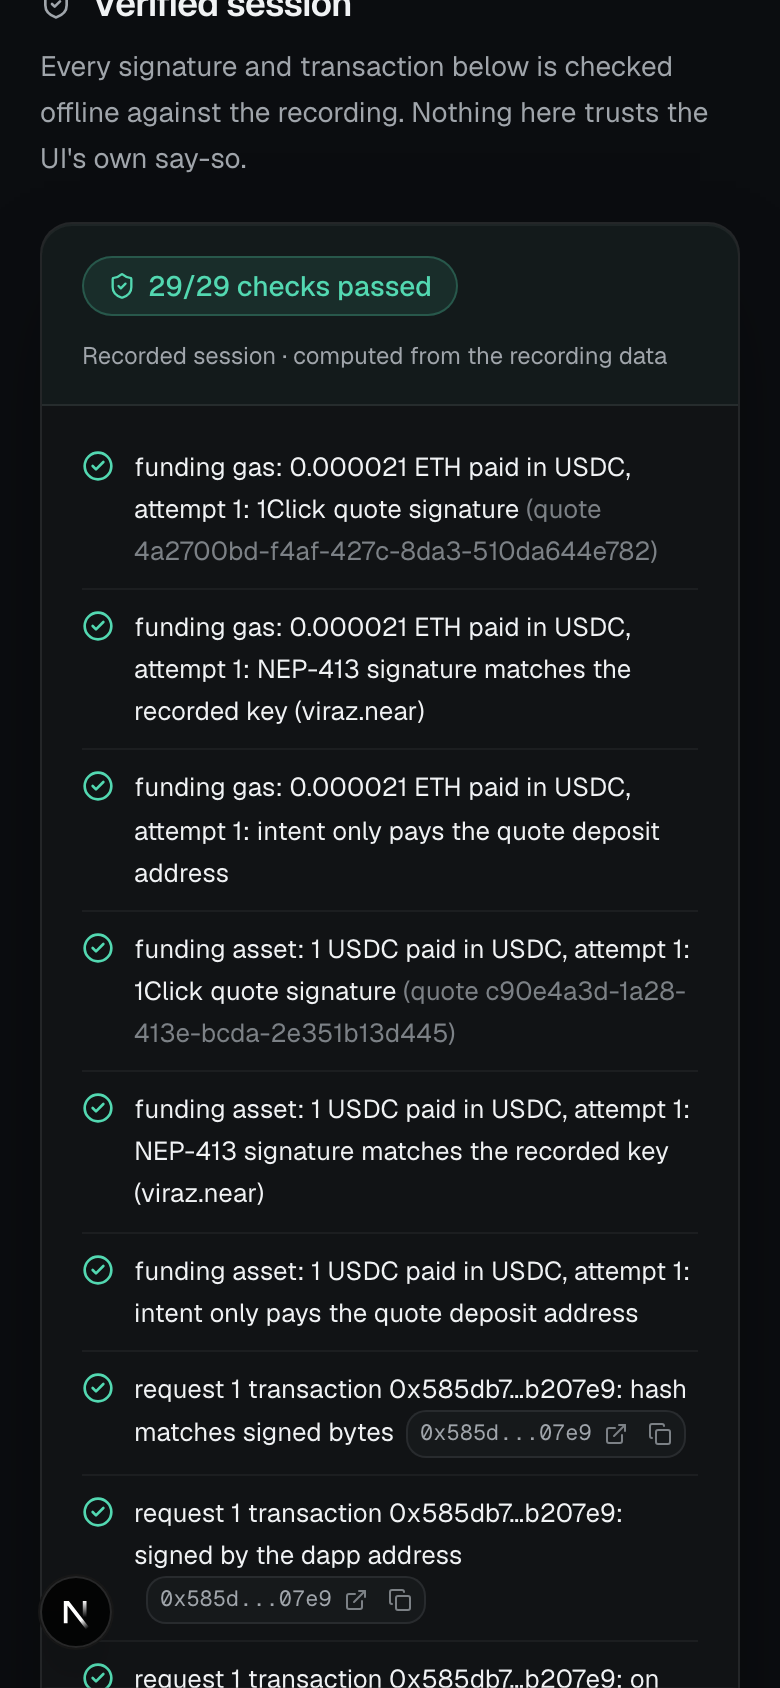
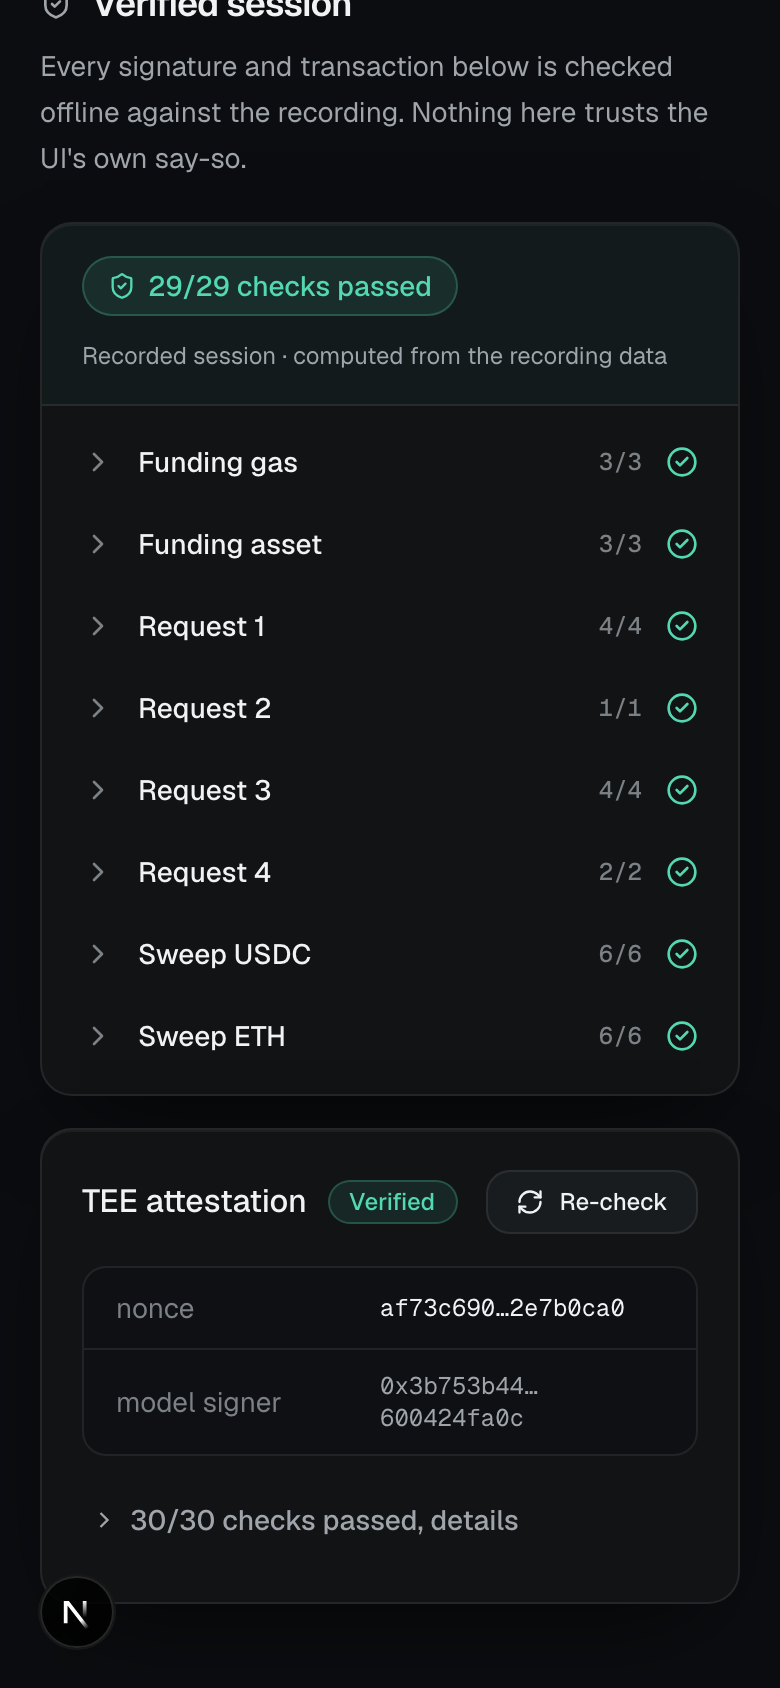
feat(web): allowed-request demo and grouped verified checks
- Hero gains "Try an allowed request", opening the sheet on the recorded
  sent contract call (the Uniswap swap) in a green "Allowed by Shelter"
  state with the decoded table, tx chip and Shelter checks box.
- Verified session replaces the flat two-column list with one collapsible
  row per group (funding legs, each request, each sweep), counts computed
  from verifySession output; all rows start collapsed.
- Screenshots and the axe pass now cover the allowed sheet as well.

diff --git a/apps/web/components/connect/connect-verified.tsx b/apps/web/components/connect/connect-verified.tsx
@@ -4,16 +4,22 @@
  * The verified panel for a recorded Connect session: every check is computed
  * from the recording (1Click quote signatures, NEP-413 withdrawal signatures,
  * dapp-signed transactions, sweep deposits, linkage re-checks), each with its
- * Basescan link where one exists. The NEAR AI TEE attestation panel stays
- * below for the explainer.
+ * Basescan link where one exists. Checks are grouped by funding leg, request
+ * and sweep; each group expands to its individual checks. The NEAR AI TEE
+ * attestation panel stays below for the explainer.
  */
 
 import { useEffect, useMemo, useState } from "react";
 import { motion, useReducedMotion } from "motion/react";
-import { CircleCheck, CircleX, ShieldCheck } from "lucide-react";
+import { ChevronRight, CircleCheck, CircleX, ShieldCheck } from "lucide-react";
 import type { ConnectAccountView } from "@/lib/connect-source";
 import { verifySession, type VerifyCheck } from "@/lib/connect-verify";
 import { VerifiedPanel } from "@/components/verified-panel";
+import {
+  Collapsible,
+  CollapsibleContent,
+  CollapsibleTrigger,
+} from "@/components/motion/collapsible";
 import { Pill, Reveal, SectionTitle, TxChip } from "./primitives";
 import { cn } from "@/lib/utils";
 import { BASESCAN_TX } from "@/lib/connect-format";
@@ -50,6 +56,71 @@ function CheckItem({ check }: { check: VerifyCheck }) {
   );
 }
 
+interface CheckGroup {
+  name: string;
+  checks: VerifyCheck[];
+}
+
+/** Group checks by what they verify: funding leg, request, or sweep. */
+function groupChecks(checks: VerifyCheck[]): CheckGroup[] {
+  const groups = new Map<string, VerifyCheck[]>();
+  for (const c of checks) {
+    const m =
+      c.label.match(/^funding (gas[^:]*|asset):/) ??
+      c.label.match(/^request (\d+)/) ??
+      c.label.match(/^sweep ([^:]+):/);
+    let name: string;
+    if (m) {
+      if (c.label.startsWith("funding ")) {
+        name = m[1] === "asset" ? "Funding asset" : "Funding gas";
+      } else if (c.label.startsWith("request ")) {
+        name = `Request ${m[1]}`;
+      } else {
+        name = `Sweep ${m[1]}`;
+      }
+    } else {
+      name = "Other";
+    }
+    const list = groups.get(name) ?? [];
+    list.push(c);
+    groups.set(name, list);
+  }
+  return [...groups.entries()].map(([name, list]) => ({ name, checks: list }));
+}
+
+function GroupRow({ group }: { group: CheckGroup }) {
+  const pass = group.checks.filter((c) => c.status === "pass").length;
+  const allPass = pass === group.checks.length;
+  return (
+    <Collapsible>
+      <CollapsibleTrigger className="group/row rounded-lg px-3 py-2.5 hover:bg-muted/40">
+        <ChevronRight
+          className="size-4 shrink-0 text-faint transition-transform group-data-[state=open]/row:rotate-90"
+          aria-hidden
+        />
+        <span className="min-w-0 flex-1 truncate text-sm font-medium text-foreground">
+          {group.name}
+        </span>
+        <span className="font-mono text-xs tabular-nums text-faint">
+          {pass}/{group.checks.length}
+        </span>
+        {allPass ? (
+          <CircleCheck className="size-4 shrink-0 text-shelter" aria-hidden />
+        ) : (
+          <CircleX className="size-4 shrink-0 text-destructive" aria-hidden />
+        )}
+      </CollapsibleTrigger>
+      <CollapsibleContent contentClassName="px-3 pb-2">
+        <ul className="divide-y divide-border/60">
+          {group.checks.map((c) => (
+            <CheckItem key={c.id} check={c} />
+          ))}
+        </ul>
+      </CollapsibleContent>
+    </Collapsible>
+  );
+}
+
 export function ConnectVerified({ view }: { view: ConnectAccountView }) {
   const reduce = useReducedMotion();
   const [checks, setChecks] = useState<VerifyCheck[] | null>(null);
@@ -72,9 +143,7 @@ export function ConnectVerified({ view }: { view: ConnectAccountView }) {
   const passCount = useMemo(() => checks?.filter((c) => c.status === "pass").length ?? 0, [checks]);
   const total = checks?.length ?? 0;
   const allPass = checks !== null && passCount === total && total > 0;
-  const mid = Math.ceil((checks?.length ?? 0) / 2);
-  const left = checks?.slice(0, mid) ?? [];
-  const right = checks?.slice(mid) ?? [];
+  const groups = useMemo(() => (checks ? groupChecks(checks) : []), [checks]);
 
   return (
     <Reveal>
@@ -102,18 +171,11 @@ export function ConnectVerified({ view }: { view: ConnectAccountView }) {
             initial={reduce ? false : { opacity: 0 }}
             animate={{ opacity: 1 }}
             transition={{ duration: 0.3 }}
-            className="grid gap-x-8 px-5 py-3 md:grid-cols-2"
+            className="px-2 py-2"
           >
-            <ul className="divide-y divide-border/60">
-              {left.map((c) => (
-                <CheckItem key={c.id} check={c} />
-              ))}
-            </ul>
-            <ul className="divide-y divide-border/60">
-              {right.map((c) => (
-                <CheckItem key={c.id} check={c} />
-              ))}
-            </ul>
+            {groups.map((g) => (
+              <GroupRow key={g.name} group={g} />
+            ))}
           </motion.div>
         ) : failed ? (
           <p className="px-5 py-4 text-sm text-destructive">Could not verify the recording.</p>

diff --git a/apps/web/components/connect/request-sheet.tsx b/apps/web/components/connect/request-sheet.tsx
@@ -7,7 +7,7 @@
  */
 
 import { useMemo } from "react";
-import { AlertTriangle, Ban, CheckCircle2, ShieldX } from "lucide-react";
+import { AlertTriangle, Ban, ShieldCheck, ShieldX } from "lucide-react";
 import { CopyableHash } from "./copyable-hash";
 import { parseRequest, type Finding, type RequestRecord } from "@shelter/connect";
 import { BottomSheet } from "@/components/motion/bottom-sheet";
@@ -120,19 +120,29 @@ export function RequestSheet({ view, request, open, onOpenChange }: RequestSheet
             ) : null}
           </div>
         ) : isSent || isSigned ? (
-          <div className="flex items-center gap-2 rounded-xl border border-shelter/30 bg-shelter/10 px-4 py-3 text-sm text-shelter">
-            <CheckCircle2 className="size-4 shrink-0" aria-hidden />
-            {isSigned ? "Signed" : "Sent"}
-            {request.tx ? (
-              <span className="ml-auto inline-flex items-center gap-2 font-mono text-xs text-shelter">
+          <div className="flex flex-col items-center px-2 py-2 text-center">
+            <span className="relative grid size-14 place-items-center rounded-2xl border border-shelter/40 bg-shelter/15 text-shelter">
+              <span aria-hidden className="absolute inset-0 rounded-2xl ring-8 ring-shelter/5" />
+              <ShieldCheck className="size-7" aria-hidden />
+            </span>
+            <p className="mt-4 text-xl font-semibold tracking-tight">Allowed by Shelter</p>
+            <p className="mt-2 max-w-sm text-sm leading-relaxed text-muted-foreground">
+              {isSigned
+                ? "This signature stayed inside the dapp's own address. Nothing was sent on-chain."
+                : "This request stayed inside the dapp's own address, was signed by it, and mined on Base."}
+            </p>
+            <div className="mt-3 flex flex-wrap items-center justify-center gap-2">
+              <Pill tone="ok" className="align-middle">
+                {isSigned ? "signed" : "sent"}
+              </Pill>
+              {request.tx ? (
                 <CopyableHash
                   value={request.tx.hash}
                   href={BASESCAN_TX(request.tx.hash)}
                   label="Copy transaction hash"
-                  className="text-shelter"
                 />
-              </span>
-            ) : null}
+              ) : null}
+            </div>
           </div>
         ) : request.decision ? (
           <div className="flex items-center gap-2 rounded-xl border border-border bg-surface/60 px-4 py-3 text-sm text-muted-foreground">
@@ -168,11 +178,20 @@ export function RequestSheet({ view, request, open, onOpenChange }: RequestSheet
           </div>
         ))}
 
-        {blockFindings.length || warnFindings.length || otherFindings.length ? (
+        {blockFindings.length || warnFindings.length || otherFindings.length || isSent || isSigned ? (
           <div className="rounded-xl border bg-surface/60 p-4">
             <div className="text-xs font-medium uppercase tracking-wider text-faint">
               Shelter checks
             </div>
+            {!blockFindings.length && !warnFindings.length && !otherFindings.length ? (
+              <p className="mt-3 flex items-start gap-2 text-sm">
+                <ShieldCheck className="mt-0.5 size-4 shrink-0 text-shelter" aria-hidden />
+                <span>
+                  No findings: the request names nothing on your list.
+                </span>
+              </p>
+            ) : null}
+            {blockFindings.length || warnFindings.length || otherFindings.length ? (
             <ul className="mt-3 space-y-2">
               {[...blockFindings, ...warnFindings, ...otherFindings].map((f, i) => (
                 <li key={`${f.code}-${i}`} className="flex items-start gap-2 text-sm">
@@ -194,6 +213,7 @@ export function RequestSheet({ view, request, open, onOpenChange }: RequestSheet
                 </li>
               ))}
             </ul>
+            ) : null}
           </div>
         ) : null}
 

diff --git a/apps/web/components/connect/connect-demo.tsx b/apps/web/components/connect/connect-demo.tsx
@@ -24,6 +24,7 @@ import { ConnectGraph } from "./connect-graph";
 import { FundingTimeline } from "./funding-timeline";
 import { ConnectVerified } from "./connect-verified";
 import { LinkagePanel } from "./linkage-panel";
+import { requestListLabel } from "@/lib/request-decode";
 import { BottomSheet } from "@/components/motion/bottom-sheet";
 import { Btn, Pill, Reveal, SectionTitle } from "./primitives";
 import { cn } from "@/lib/utils";
@@ -203,6 +204,22 @@ export function ConnectDemo() {
     };
     window.addEventListener("shelter:try-it", onTry);
     return () => window.removeEventListener("shelter:try-it", onTry);
+  }, [views, openRequest]);
+
+  // "Try an allowed request" opens the sheet on the sent contract call from
+  // the recording (the dapp transaction that was allowed, not the approval).
+  useEffect(() => {
+    const onAllowed = () => {
+      const sent = Object.values(views)
+        .flatMap((v) => v.account.requests)
+        .filter((r) => r.decision === "sent" && r.method === "eth_sendTransaction" && r.tx);
+      const contractCall = sent.filter((r) => requestListLabel(r).startsWith("Contract call"));
+      const pick = contractCall.at(-1) ?? sent.at(-1);
+      if (pick) openRequest(pick);
+      else document.getElementById("connect-demo")?.scrollIntoView({ behavior: "smooth", block: "start" });
+    };
+    window.addEventListener("shelter:try-allowed", onAllowed);
+    return () => window.removeEventListener("shelter:try-allowed", onAllowed);
   }, [views, openRequest]);
 
   const view = selectedId ? views[selectedId] : undefined;

diff --git a/apps/web/app/page.tsx b/apps/web/app/page.tsx
@@ -1,7 +1,7 @@
 "use client";
 
 import { motion, useReducedMotion } from "motion/react";
-import { Play } from "lucide-react";
+import { Play, ShieldCheck } from "lucide-react";
 import { ConnectDemo } from "@/components/connect/connect-demo";
 import { Reveal } from "@/components/connect/primitives";
 import { cn } from "@/lib/utils";
@@ -59,8 +59,9 @@ function Hero() {
           your other wallets are blocked, and closing sweeps the funds home. No
           sign-in, no funds, no keys needed to try it.
         </motion.p>
-        <motion.div {...f(0.18)} className="mt-8">
+        <motion.div {...f(0.18)} className="mt-8 flex flex-wrap gap-3">
           <TryIt />
+          <TryAllowed />
         </motion.div>
       </div>
     </header>
@@ -84,6 +85,25 @@ function TryIt() {
     >
       <Play className="size-3.5 fill-current" aria-hidden />
       Try it
+    </button>
+  );
+}
+
+function TryAllowed() {
+  return (
+    <button
+      type="button"
+      onClick={() => {
+        document.getElementById("connect-demo")?.scrollIntoView({ behavior: "smooth", block: "start" });
+        window.dispatchEvent(new CustomEvent("shelter:try-allowed"));
+      }}
+      className={cn(
+        "inline-flex h-10 items-center justify-center gap-2 rounded-lg border bg-surface-2 px-5 text-sm font-medium text-foreground transition-colors hover:bg-accent",
+        "focus-visible:outline-none focus-visible:ring-2 focus-visible:ring-ring",
+      )}
+    >
+      <ShieldCheck className="size-3.5" aria-hidden />
+      Try an allowed request
     </button>
   );
 }
